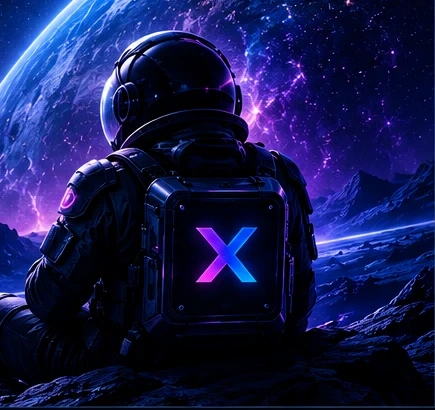
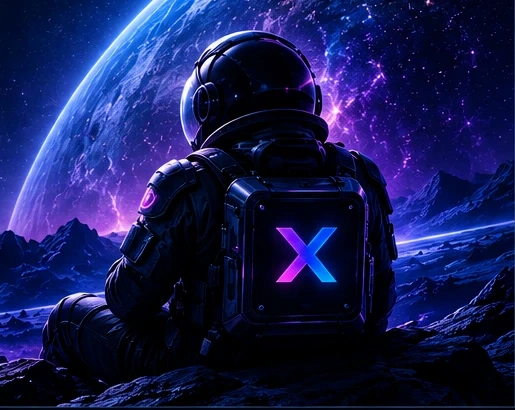
Implementa login por celular (SMS) real e melhora a foto do astronauta
- Login por celular: envia código via Supabase (signInWithOtp) e
  verifica o código digitado (verifyOtp), com tela de reenviar/trocar
  número. O botão "Entrar com o número de celular" agora leva pra essa
  aba em vez de ficar desabilitado.
- Foto do astronauta no painel esquerdo trocada por um recorte maior e
  mais nítido do mockup original (helmet completo visível).

Observação: para o SMS realmente ser enviado em produção, é preciso
habilitar um provedor de SMS (ex: Twilio) em Authentication > Providers
> Phone no painel do Supabase — isso não pode ser feito por aqui.
Claude-Session: https://claude.ai/code/session_016ayz77rUYZy8AX2w9WfFM7

diff --git a/src/app/entrar/page.tsx b/src/app/entrar/page.tsx
@@ -5,7 +5,7 @@ import { useRouter, useSearchParams } from "next/navigation";
 import Link from "next/link";
 import { createClient } from "@/lib/supabase/client";
 import { AuthShell } from "@/components/auth-shell";
-import { ArrowRight, ChevronRight, Eye, EyeOff, Lock, Mail, Phone } from "lucide-react";
+import { ArrowRight, ChevronRight, Eye, EyeOff, Lock, Mail, Phone, ShieldCheck } from "lucide-react";
 import { clsx } from "clsx";
 
 function GoogleIcon({ className }: { className?: string }) {
@@ -41,6 +41,12 @@ function EntrarForm() {
   const [error, setError] = useState<string | null>(null);
   const [resetStatus, setResetStatus] = useState<string | null>(null);
 
+  const [phone, setPhone] = useState("");
+  const [otp, setOtp] = useState("");
+  const [otpSent, setOtpSent] = useState(false);
+  const [phoneLoading, setPhoneLoading] = useState(false);
+  const [phoneError, setPhoneError] = useState<string | null>(null);
+
   async function handleSubmit(e: React.FormEvent) {
     e.preventDefault();
     setError(null);
@@ -62,6 +68,46 @@ function EntrarForm() {
       provider: "google",
       options: { redirectTo: `${window.location.origin}/auth/callback` },
     });
+  }
+
+  function normalizePhone(value: string) {
+    const digits = value.replace(/[^\d+]/g, "");
+    if (digits.startsWith("+")) return digits;
+    return `+55${digits}`;
+  }
+
+  async function handleSendOtp(e: React.FormEvent) {
+    e.preventDefault();
+    setPhoneError(null);
+    setPhoneLoading(true);
+    const { error: otpError } = await supabase.auth.signInWithOtp({ phone: normalizePhone(phone) });
+    setPhoneLoading(false);
+
+    if (otpError) {
+      setPhoneError(otpError.message);
+      return;
+    }
+    setOtpSent(true);
+  }
+
+  async function handleVerifyOtp(e: React.FormEvent) {
+    e.preventDefault();
+    setPhoneError(null);
+    setPhoneLoading(true);
+    const { error: verifyError } = await supabase.auth.verifyOtp({
+      phone: normalizePhone(phone),
+      token: otp,
+      type: "sms",
+    });
+    setPhoneLoading(false);
+
+    if (verifyError) {
+      setPhoneError(verifyError.message);
+      return;
+    }
+
+    router.push(params.get("redirect") || "/feed");
+    router.refresh();
   }
 
   async function handleForgotPassword() {
@@ -94,9 +140,8 @@ function EntrarForm() {
 
       <button
         type="button"
-        disabled
-        title="Em breve"
-        className="mb-4 flex w-full cursor-not-allowed items-center justify-between rounded-xl border border-white/10 bg-white/5 px-4 py-2.5 text-sm font-medium text-white/40"
+        onClick={() => setMode("celular")}
+        className="mb-4 flex w-full items-center justify-between rounded-xl border border-white/15 bg-white/5 px-4 py-2.5 text-sm font-medium text-white transition hover:bg-white/10"
       >
         <span className="flex items-center gap-2">
           <Phone className="h-4 w-4" /> Entrar com o número de celular
@@ -148,9 +193,79 @@ function EntrarForm() {
       </div>
 
       {mode === "celular" ? (
-        <p className="rounded-xl border border-dashed border-white/10 p-6 text-center text-sm text-white/40">
-          Entrar com número de celular em breve. Use seu e-mail por enquanto.
-        </p>
+        !otpSent ? (
+          <form onSubmit={handleSendOtp} className="space-y-3">
+            <div>
+              <label className="mb-1 block text-xs text-white/50">Número de celular</label>
+              <div className="relative">
+                <Phone className="pointer-events-none absolute left-3 top-1/2 h-4 w-4 -translate-y-1/2 text-white/30" />
+                <input
+                  required
+                  type="tel"
+                  value={phone}
+                  onChange={(e) => setPhone(e.target.value)}
+                  placeholder="+55 (11) 91234-5678"
+                  className="w-full rounded-lg border border-white/10 bg-space-card py-2 pl-9 pr-3 text-sm text-white outline-none focus:border-orbit-purple"
+                />
+              </div>
+            </div>
+
+            {phoneError && <p className="text-xs text-red-400">{phoneError}</p>}
+
+            <button
+              type="submit"
+              disabled={phoneLoading}
+              className="flex w-full items-center justify-center gap-2 rounded-xl bg-orbit-gradient py-2.5 text-sm font-semibold text-white shadow-glow transition hover:opacity-90 disabled:opacity-50"
+            >
+              {phoneLoading ? "Enviando código..." : (
+                <>
+                  Enviar código <ArrowRight className="h-4 w-4" />
+                </>
+              )}
+            </button>
+          </form>
+        ) : (
+          <form onSubmit={handleVerifyOtp} className="space-y-3">
+            <p className="text-xs text-white/50">
+              Enviamos um código de verificação por SMS para <span className="text-white">{normalizePhone(phone)}</span>.
+            </p>
+            <div>
+              <label className="mb-1 block text-xs text-white/50">Código de verificação</label>
+              <div className="relative">
+                <ShieldCheck className="pointer-events-none absolute left-3 top-1/2 h-4 w-4 -translate-y-1/2 text-white/30" />
+                <input
+                  required
+                  inputMode="numeric"
+                  value={otp}
+                  onChange={(e) => setOtp(e.target.value)}
+                  placeholder="000000"
+                  className="w-full rounded-lg border border-white/10 bg-space-card py-2 pl-9 pr-3 text-sm tracking-[0.3em] text-white outline-none focus:border-orbit-purple"
+                />
+              </div>
+            </div>
+
+            {phoneError && <p className="text-xs text-red-400">{phoneError}</p>}
+
+            <button
+              type="submit"
+              disabled={phoneLoading}
+              className="flex w-full items-center justify-center gap-2 rounded-xl bg-orbit-gradient py-2.5 text-sm font-semibold text-white shadow-glow transition hover:opacity-90 disabled:opacity-50"
+            >
+              {phoneLoading ? "Verificando..." : (
+                <>
+                  Verificar código <ArrowRight className="h-4 w-4" />
+                </>
+              )}
+            </button>
+            <button
+              type="button"
+              onClick={() => { setOtpSent(false); setOtp(""); setPhoneError(null); }}
+              className="w-full text-center text-xs text-white/40 hover:text-white/70"
+            >
+              Trocar número ou reenviar código
+            </button>
+          </form>
+        )
       ) : (
         <form onSubmit={handleSubmit} className="space-y-3">
           <div>
